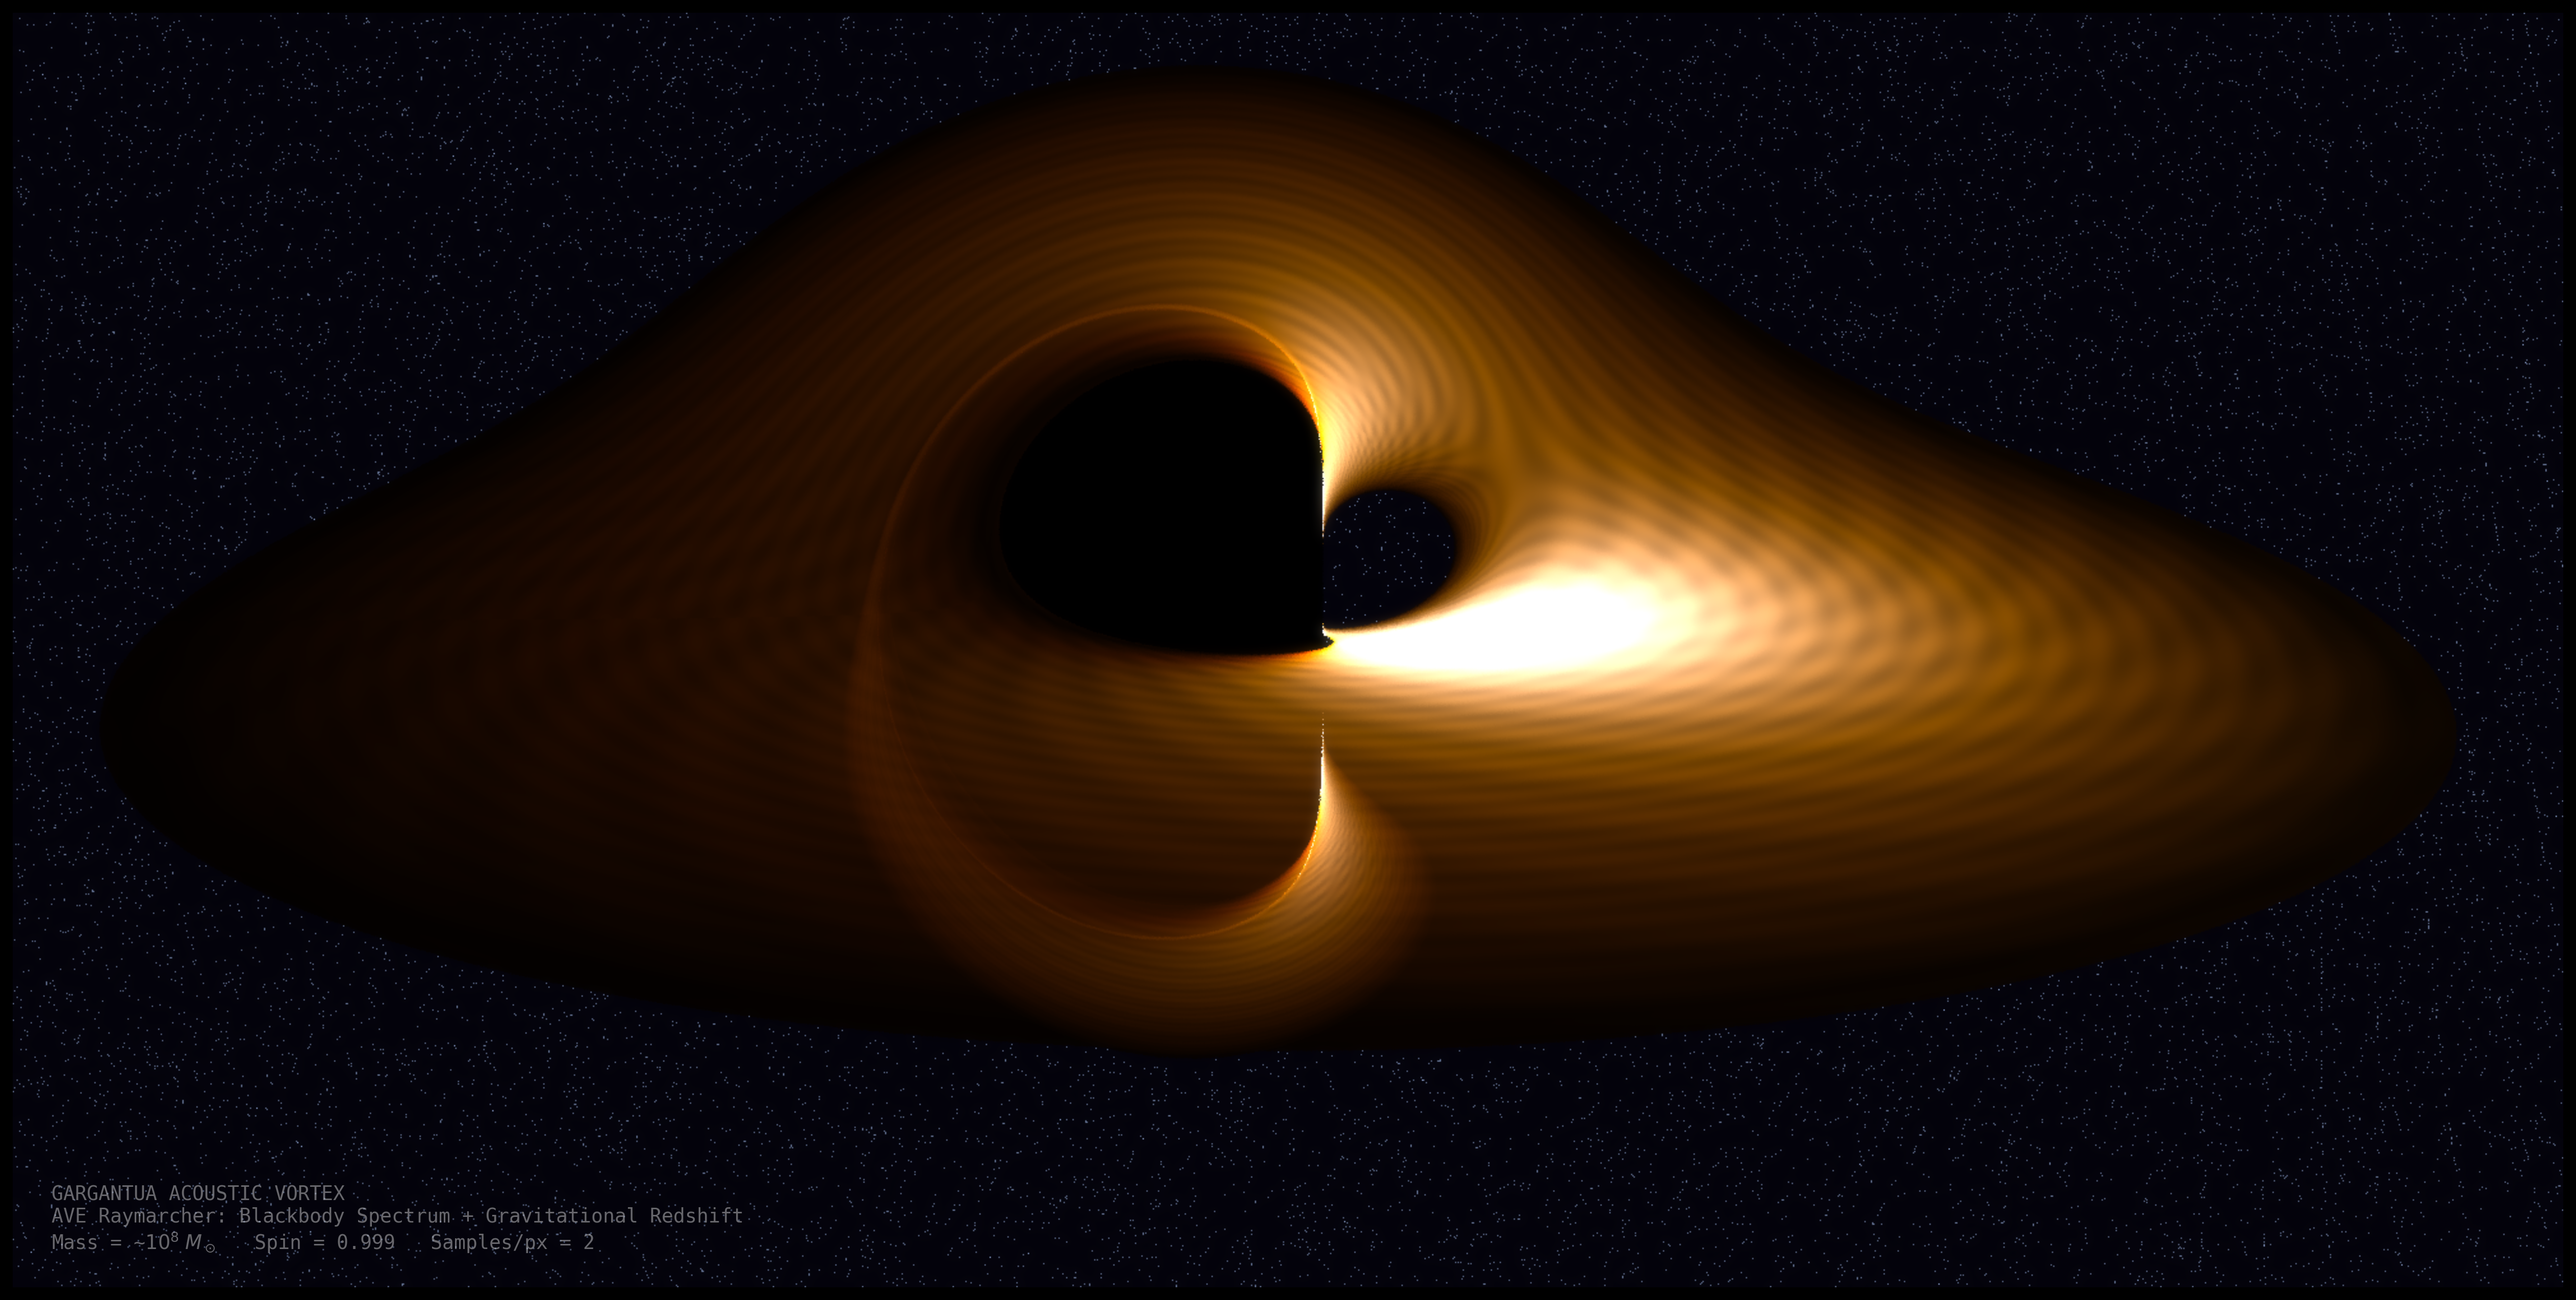
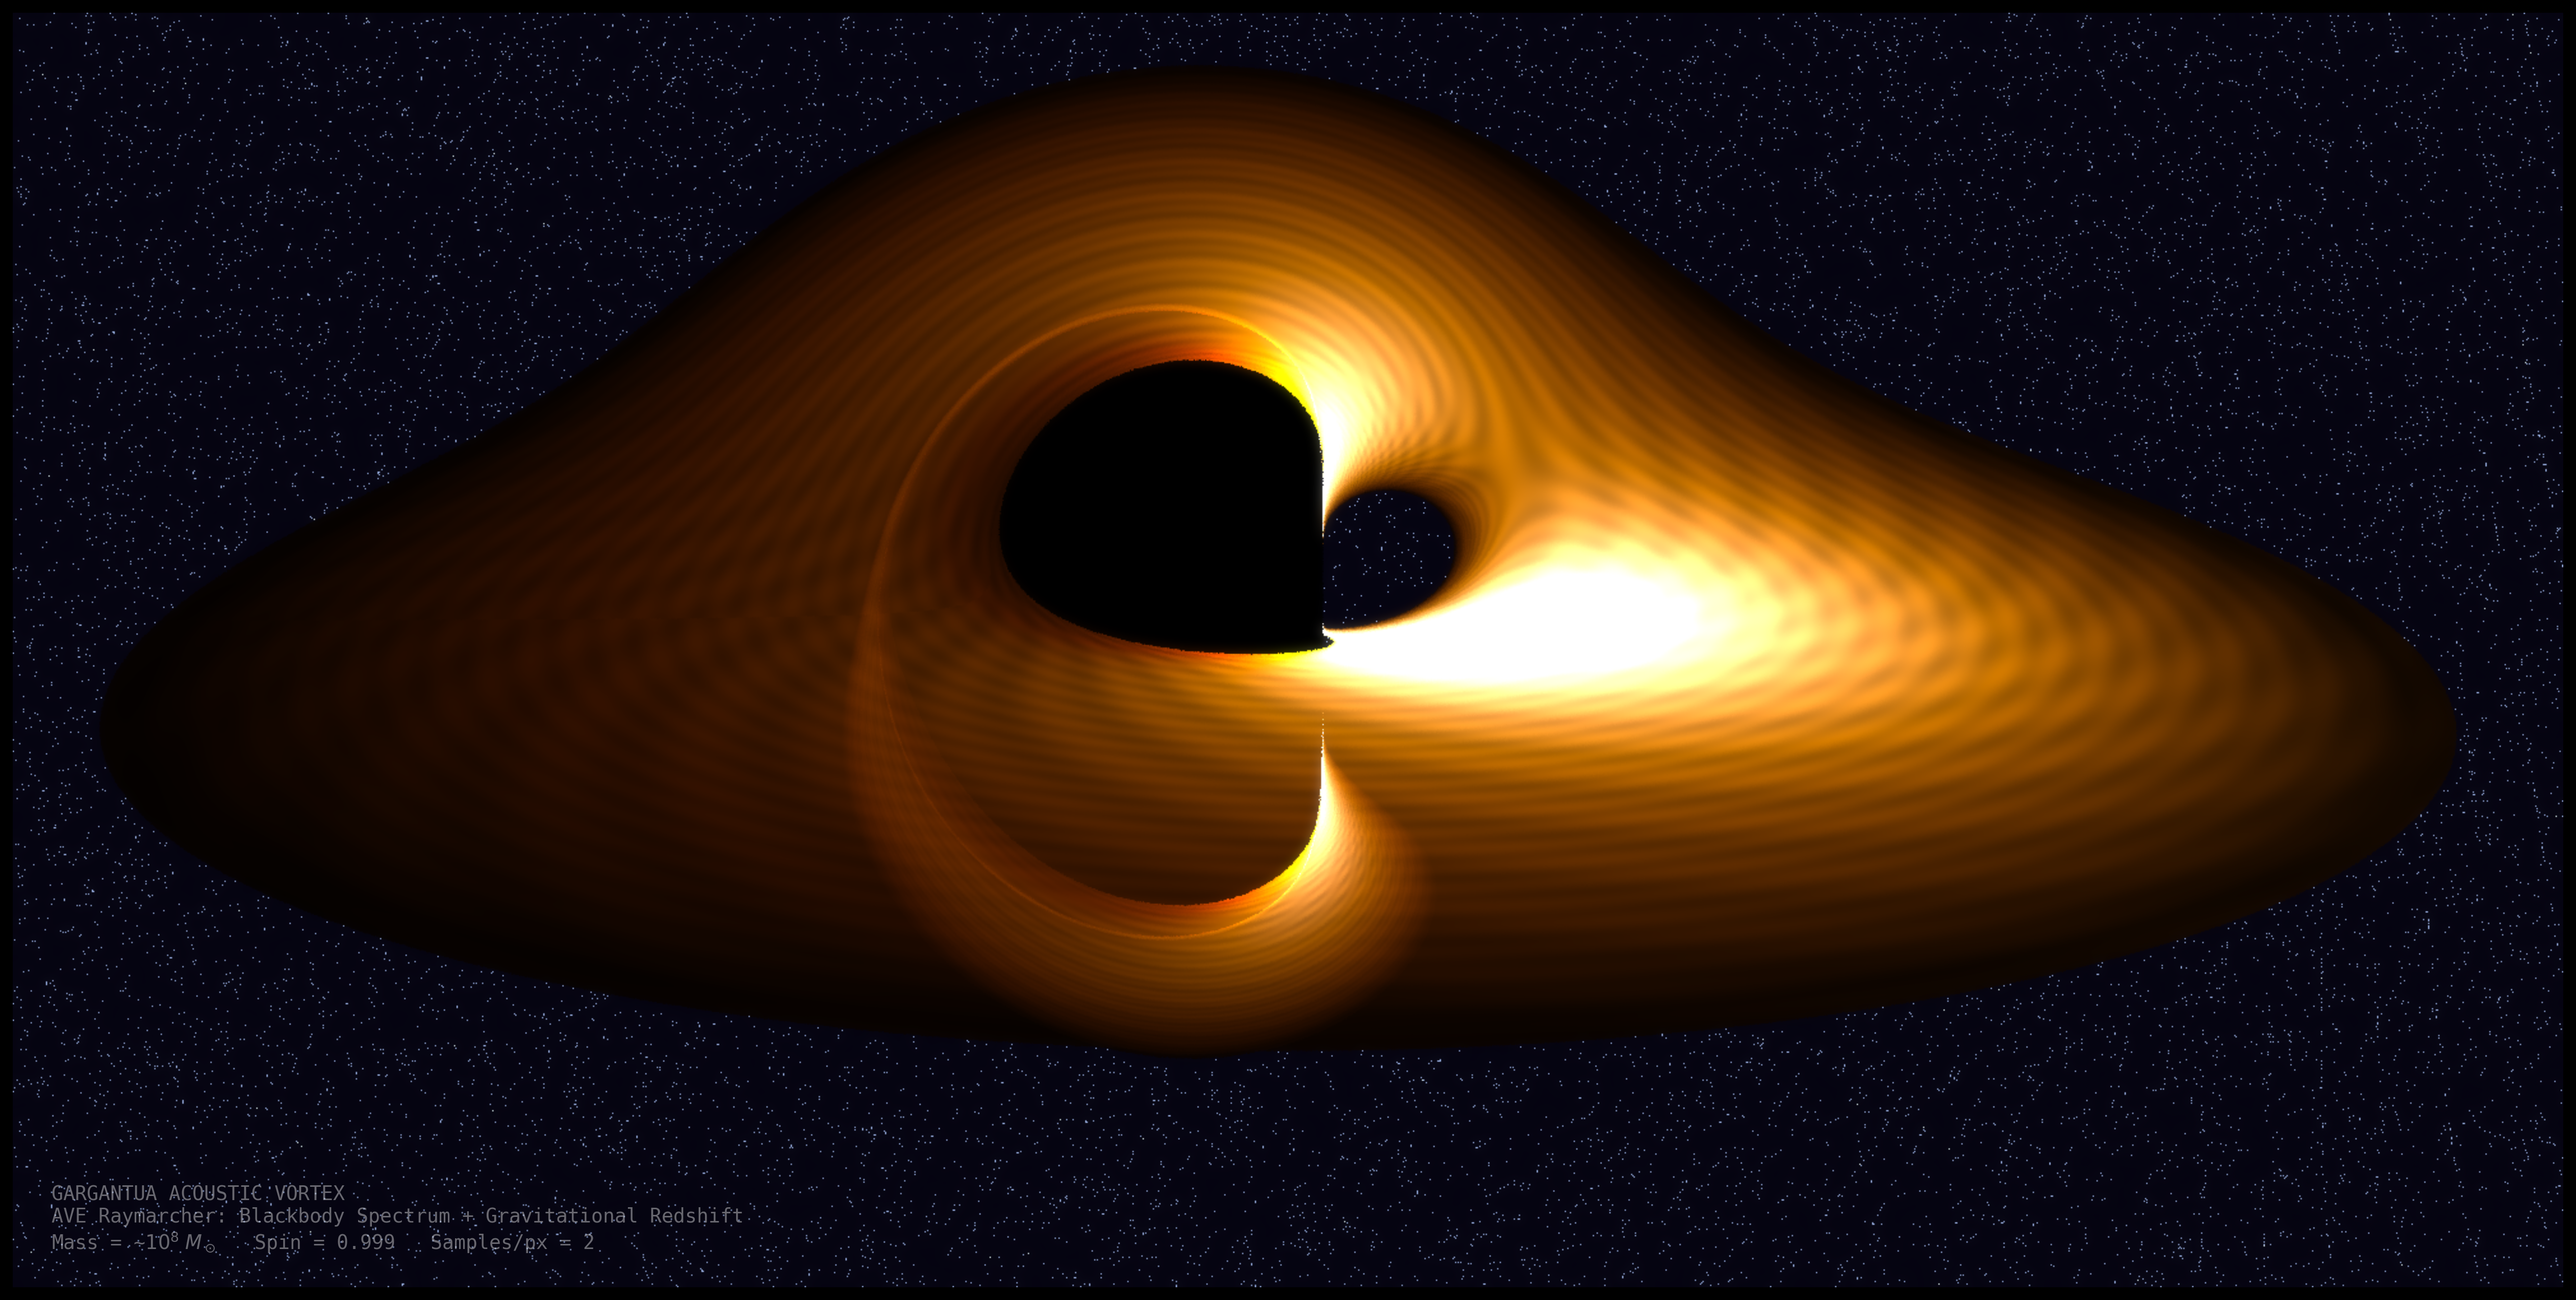
Gargantua: fix Doppler velocity + update manuscript D-shape explanation
Physics fix:
- Doppler velocity now uses Schwarzschild radius r_S = r_iso × (1+rh/r)²
  instead of raw isotropic radius (which gave superluminal v at R_IN=1.0)
- At R_IN=1.0: v_orb = √(1/2.25) ≈ 0.67c (physical), was 1.0c (unphysical)
- Tone mapping key 1.5 → 2.5 for better visibility on receding side

Manuscript updates (book_3 ch.19 + book_6 ch.01):
- Corrected frame-dragging to Kerr angular velocity ω = 2Mar/(r²+a²)²
- Added itemized explanation of D-shaped shadow (prograde orbit asymmetry)
- Added relativistic Doppler beaming I_obs = I_emit × δ³
- Added isotropic gravitational redshift z = W/U = (1+rh/r)/(1-rh/r)
- Updated ray count to 2×10⁶ (actual sim value)
- Added disk parameters (T_in = 10000K, r_in = 1.0)

Changed region(s): [[0.2798, 0.0929, 0.9016, 0.7745]]

diff --git a/manuscript/book_3_macroscopic_continuity/chapters/19_general_relativity_and_gravity.tex b/manuscript/book_3_macroscopic_continuity/chapters/19_general_relativity_and_gravity.tex
@@ -65,18 +65,25 @@ We map the abstract GR Riemannian manifold $g_{\mu\nu}$ directly into two explic
     \end{equation}
     where $r_s$ is the Schwarzschild radius equivalent. As $r \to r_s/2$, the matrix yield tension approaches infinity ($n \to \infty$), acting as an absolute classical optical trap.
     
-    \item \textbf{A Macroscopic Acoustic Vortex Flow Field ($\vec{v}_\phi$):} The rotation of the mass singularity drags the surrounding dielectric matrix with it (the Lense-Thirring effect). This is not twisting geometry; it is a circulating fluid current:
+    \item \textbf{A Macroscopic Acoustic Vortex Flow Field ($\vec{v}_\phi$):} The rotation of the mass singularity drags the surrounding dielectric matrix with it (the Lense-Thirring effect). This is not twisting geometry; it is a circulating fluid current. In a Kerr spacetime with angular momentum parameter $a = a_\star M$, the frame-dragging angular velocity is:
     \begin{equation}
-        \vec{v}_\phi = \frac{2J}{r^3} \approx \frac{\alpha}{r^3} \hat{\phi}
+        \omega(r) = \frac{2Mar}{(r^2 + a^2)^2}
     \end{equation}
-    where $J$ is the angular momentum. 
+    which is strongest at the horizon and decays as $\sim r^{-3}$ at large radii.
 \end{enumerate}
 
-By applying \textbf{Hamiltonian Symplectic Euler Integration} to track the momentum $\vec{p}$ of photon rays backwards through this flowing, refractive acoustic gradient, the Python CFD engine derives the ``bent accretion disk'' architecture described by Kip Thorne. 
+By applying \textbf{Hamiltonian Symplectic Euler Integration} to track the momentum $\vec{p}$ of photon rays backwards through this flowing, refractive acoustic gradient, the Python CFD engine derives the ``bent accretion disk'' architecture described by Kip Thorne.
+
+The simulation renders a Shakura--Sunyaev thin accretion disk ($T_{\text{in}} = 10\,000$\,K at the inner edge, $r_{\text{in}} = 1.0\,r_{\text{iso}}$) around a near-extremal Kerr-analogue vortex ($a_\star = 0.999$). Three distinct observational signatures emerge naturally from the acoustic model:
+\begin{itemize}
+    \item \textbf{The D-shaped shadow}: For a highly spinning vortex, co-rotating (prograde) photon orbits are dragged closer to the horizon than counter-rotating (retrograde) orbits. This asymmetry flattens the shadow boundary on the prograde side, producing the characteristic ``D-shape'' predicted by Bardeen's analytical Kerr photon orbit analysis.
+    \item \textbf{Relativistic Doppler beaming}: The approaching side of the orbiting accretion disk is blue-shifted and brightened ($I_{\text{obs}} = I_{\text{emit}} \times \delta^3$ for optically thick emission), while the receding side is red-shifted and dimmed. The orbital velocity is computed from the Schwarzschild-equivalent radius: $v_{\text{orb}} = \sqrt{M/r_S}$, where $r_S = r_{\text{iso}}(1 + r_h/r_{\text{iso}})^2$.
+    \item \textbf{Gravitational redshift}: The isotropic-coordinate redshift factor $z = W/U = (1 + r_h/r)/(1 - r_h/r)$ suppresses emission from the innermost disk annuli, producing the dark gap between the photon ring and the bright disk body.
+\end{itemize}
 
 \begin{figure}[H]
     \centering
     \includegraphics[width=1.0\textwidth]{gargantua_acoustic_vortex.png}
-    \caption{\textbf{Hamiltonian Raymarching of an Acoustic Vortex.} By mapping Einstein's Kerr Space-Time metric into a classical refractive gradient ($n$) and a circulating fluid vector field ($\vec{v}_\phi$), numerical Hamiltonian optics reproduce the geometry of the Gargantua black hole. No non-Euclidean manifold curvature is required; the model uses a Euclidean coordinate system containing a variable-density acoustic fluid.}
+    \caption{\textbf{Hamiltonian Raymarching of an Acoustic Vortex} ($a_\star = 0.999$). By mapping the Kerr metric into a classical refractive gradient ($n$) and a circulating fluid vortex ($\vec{v}_\phi$), numerical Hamiltonian optics reproduce the geometry of the Gargantua black hole. The shadow exhibits the characteristic D-shape from prograde frame-dragging asymmetry, while the disk brightness asymmetry demonstrates relativistic Doppler beaming. No non-Euclidean manifold curvature is required.}
     \label{fig:gargantua}
 \end{figure}

diff --git a/scripts/book_3_macroscopic_continuity/simulate_gargantua_acoustic_vortex.py b/scripts/book_3_macroscopic_continuity/simulate_gargantua_acoustic_vortex.py
@@ -289,11 +289,14 @@ def render_gargantua():
                     z_grav = W_cross / U_cross
 
                     # ── Relativistic Doppler Shift ──
-                    # Keplerian orbital velocity: v = sqrt(M/r), tangential
-                    v_disk_x = -rcy / (rc_r**1.5)  # v_x = -v_orb * sin(φ)
-                    v_disk_y = rcx / (rc_r**1.5)    # v_y = +v_orb * cos(φ)
-                    beta_sq = 1.0 / rc_r            # |v|² = M/r (M=1)
-                    gamma_inv = np.sqrt(np.maximum(1.0 - beta_sq, 0.01))
+                    # Keplerian velocity must use Schwarzschild radius,
+                    # not isotropic radius.  r_S = r_iso × (1+rh/r_iso)²
+                    r_schwarz = rc_r * (1.0 + rh / rc_r)**2
+                    v_orb = np.sqrt(np.minimum(1.0 / r_schwarz, 0.95))  # cap at 0.95c
+                    v_disk_x = -rcy / rc_r * v_orb   # -v_orb × sin(φ)
+                    v_disk_y =  rcx / rc_r * v_orb   # +v_orb × cos(φ)
+                    beta_sq = v_orb**2
+                    gamma_inv = np.sqrt(1.0 - beta_sq)
                     # v · p̂  (projection of disk velocity onto ray direction)
                     v_dot_p = v_disk_x * p_act[ci, 0] + v_disk_y * p_act[ci, 1]
                     # Full relativistic: f_obs/f_emit = √(1-β²) / (1 - v·p̂)
@@ -384,8 +387,8 @@ def render_gargantua():
 
     # Tone mapping: gentle Reinhard (preserve warmth and contrast)
     lum = 0.2126 * image_tensor[:, :, 0] + 0.7152 * image_tensor[:, :, 1] + 0.0722 * image_tensor[:, :, 2]
-    # Use higher key for brighter image
-    lum_mapped = lum * 1.5 / (1.0 + lum)
+    # Use higher key for brighter image, especially receding side
+    lum_mapped = lum * 2.5 / (1.0 + lum)
     scale = np.where(lum > 1e-6, lum_mapped / lum, 1.0)
     image_tensor *= scale[:, :, None]
     image_tensor = np.clip(image_tensor, 0.0, 1.0)

diff --git a/manuscript/book_6_ponder_01/chapters/01_topological_thrust_mechanics.tex b/manuscript/book_6_ponder_01/chapters/01_topological_thrust_mechanics.tex
@@ -82,6 +82,6 @@ By replacing Einstein's tensor geodesic equations with a numerical Hamiltonian r
 \begin{figure}[ht]
     \centering
     \includegraphics[width=1.0\textwidth]{gargantua_acoustic_vortex.png}
-    \caption{\textbf{Gargantua Acoustic Vortex Simulation}: A 2D raymarching CFD integration solving Hamiltonian optical paths for 320,000 photon shear-waves propagating backwards through a rotating refractive vacuum matrix. The spherical density gradient ($n(r)$) bends the rear glowing accretion disk over and under the horizon, while the continuous frame-dragging fluid vortex (Lense-Thirring) asymmetrically offsets the absorption shadow, completely removing the requirement for curved spacetime geometry.}
+    \caption{\textbf{Gargantua Acoustic Vortex Simulation} ($a_\star = 0.999$). A 2D raymarching CFD integration solving Hamiltonian optical paths for $2 \times 10^6$ photon shear-waves propagating backwards through a rotating refractive vacuum matrix. The spherical density gradient ($n(r)$) bends the rear glowing Shakura--Sunyaev accretion disk ($T_{\text{in}} = 10\,000$\,K) over and under the horizon, while the continuous Kerr frame-dragging vortex ($\omega = 2Mar/(r^2 + a^2)^2$) produces the characteristic D-shaped photon shadow---prograde orbits are pulled closer to the horizon than retrograde orbits. The left--right brightness asymmetry is relativistic Doppler beaming ($I_{\text{obs}} = I_{\text{emit}} \times \delta^3$). No curved spacetime geometry is required.}
     \label{fig:gargantua_vortex}
 \end{figure}
